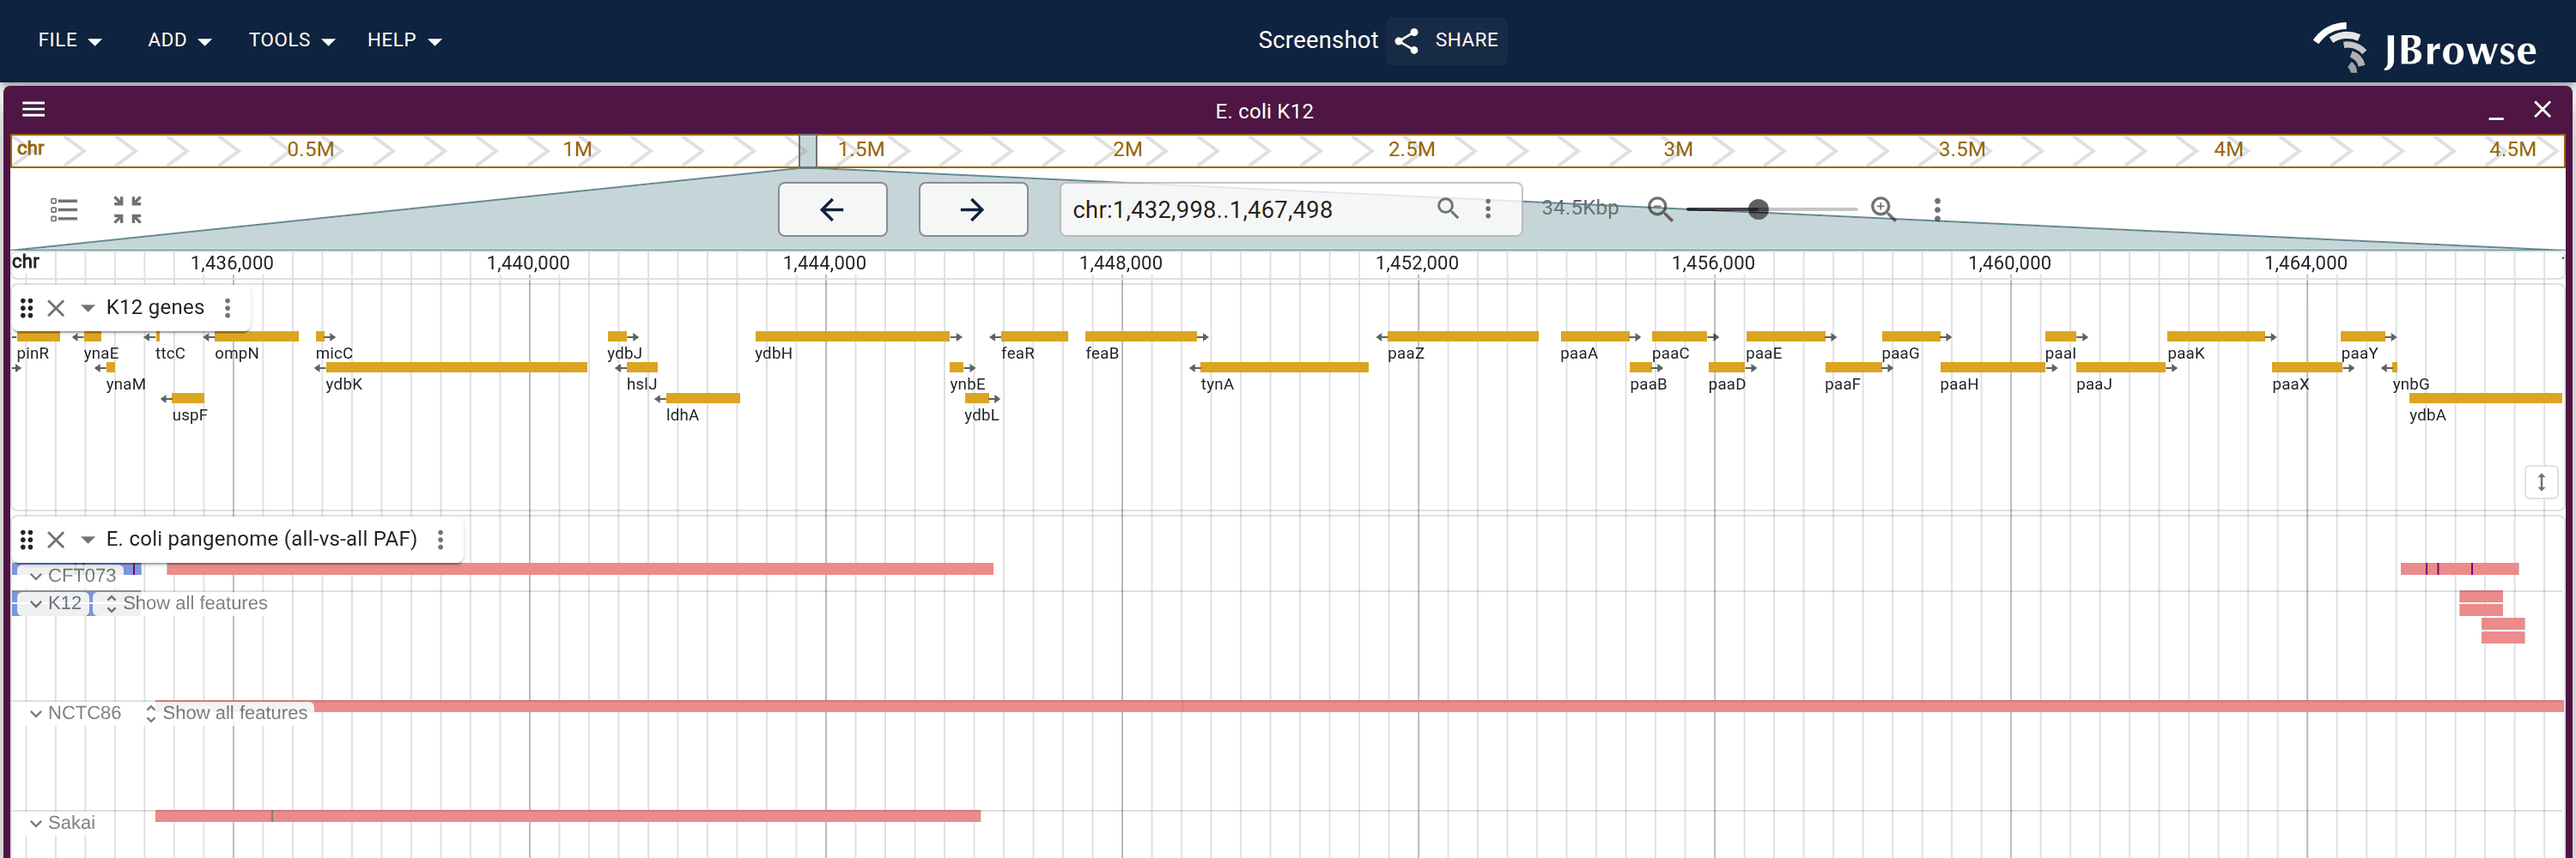
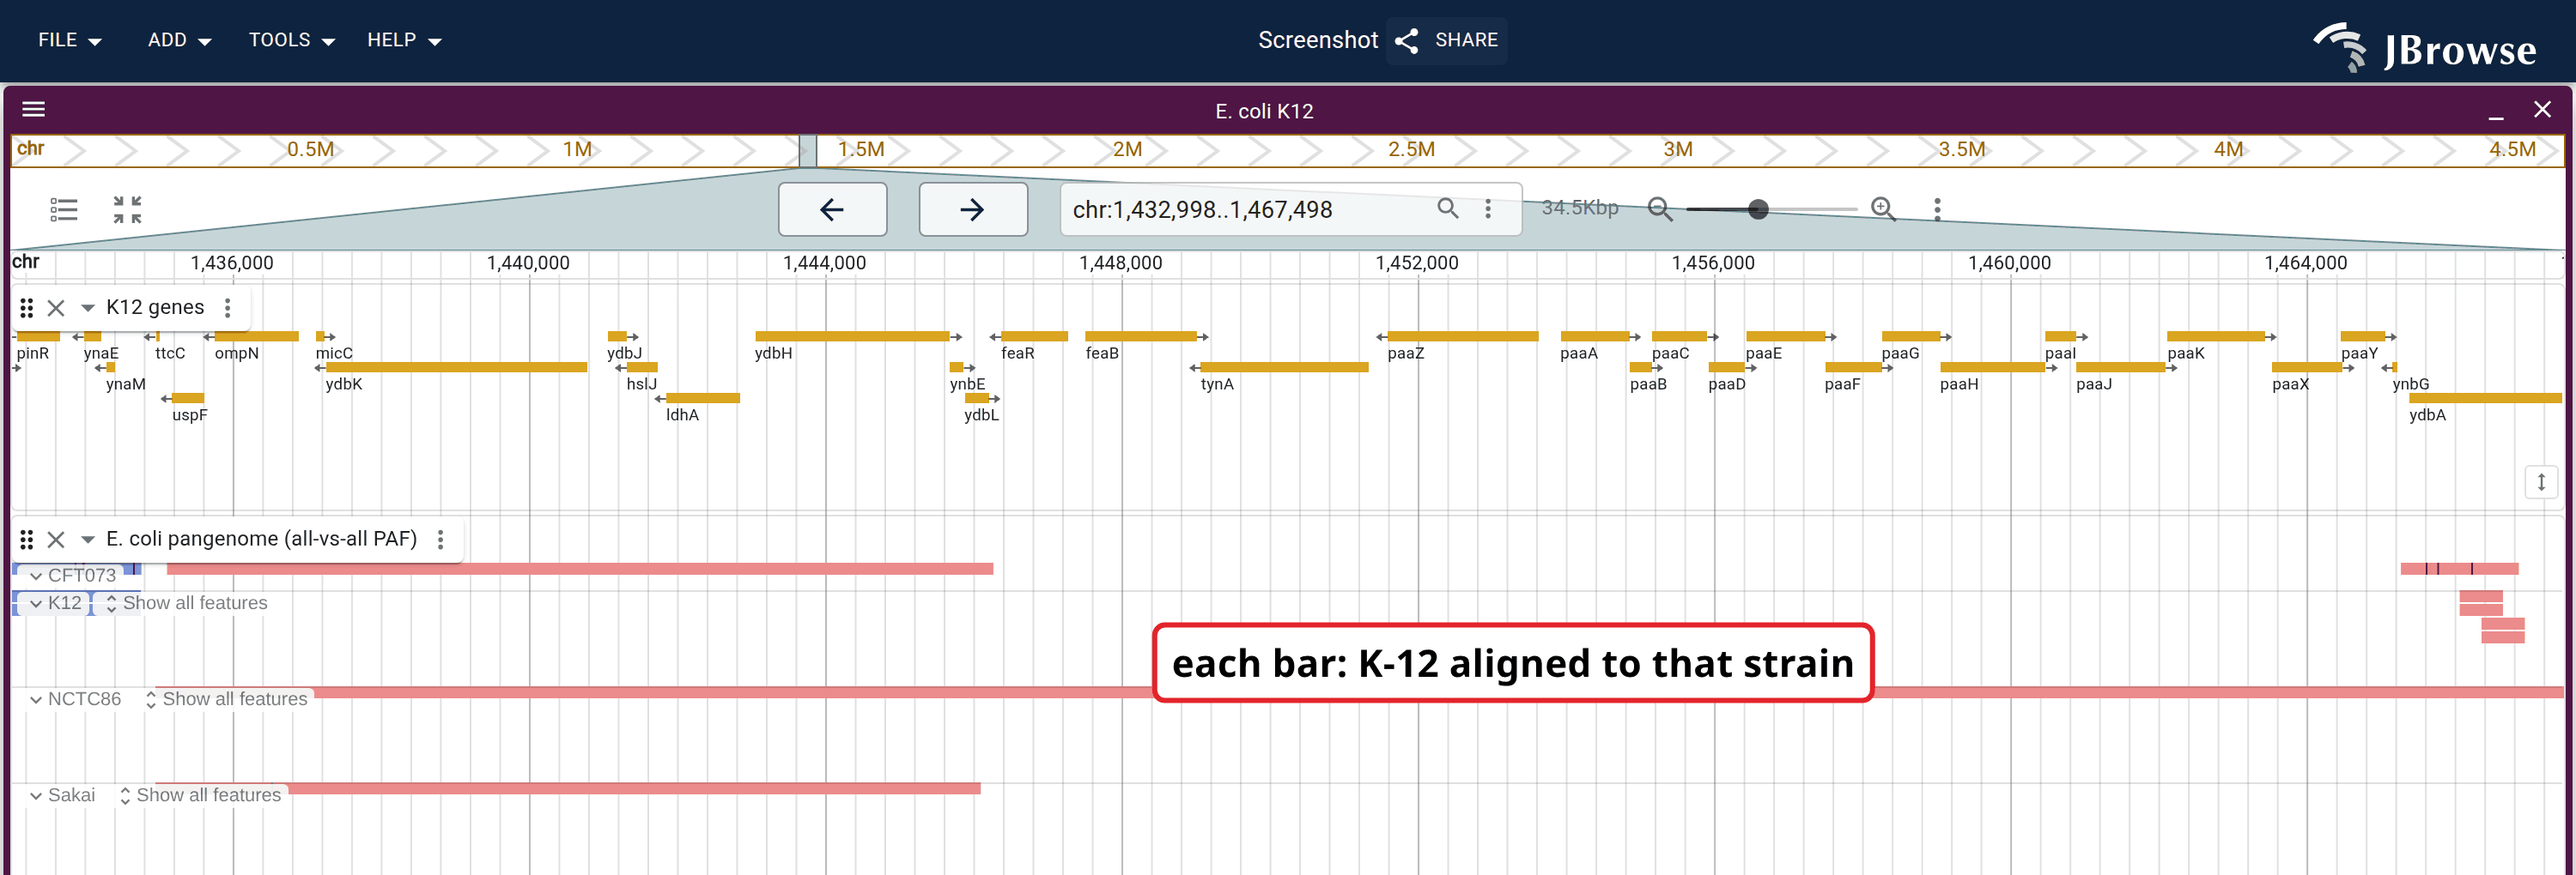
docs(synteny): make the one-vs-all figure legible, add it to the gallery
Review feedback on ecoli_one_vs_all was "unclear what we are looking at. needs
extra annotation potentially". The cause was mostly layout: at height 250 the
four mate sections were nearly all empty space, so the figure read as a scatter
of unrelated bars rather than one track split into four per-strain rows. Sizing
the track to the rows it actually has puts the four sections adjacent, where the
grouping is self-evident.

Adds one callout for the part the section chips still do not say: that each bar
is K-12 aligned to that strain, not four separate tracks. Anchored to the bottom
section's chip and pushed right into the bare stretch so it covers no block, per
the on-image annotation rule that it name the view and leave the biology to the
caption (which is unchanged and still accurate).

Also adds the whole-genome one-vs-all figure to the gallery. Synteny rendered
through the pileup display in a plain LGV is a distinct capability from the
synteny-view cards already there, and it had a committed figure and a resolvable
live link but no card.

Claude-Session: https://claude.ai/code/session_013fBxpsWWPdqnW8oj71YZwX

diff --git a/website/scripts/specs/synteny.ts b/website/scripts/specs/synteny.ts
@@ -462,17 +462,35 @@ export const syntenySpecs: ScreenshotSpec[] = [
                 trackId: 'ecoli_ava',
                 type: 'LGVSyntenyDisplay',
                 groupBy: { type: 'mateAssembly' },
-                height: 250,
+                // sized to the four sections' actual rows. At 250 each section
+                // was mostly empty space, which is what made the figure read as
+                // an unexplained scatter of bars rather than four per-strain
+                // rows ("unclear what we are looking at" in review).
+                height: 210,
               },
             ],
           },
         ],
       },
     ),
-    viewportHeight: 500,
+    viewportHeight: 510,
     readySelector: '[data-testid="pileup-display-done"]',
     readyTimeout: 120000,
     settleMs: 12000,
+    // One callout naming what the section labels don't say: these are not four
+    // tracks, they are one track split by which strain each block aligns to.
+    // Anchored to the bottom section's chip and pushed right into the bare
+    // stretch, so it labels the sections without covering any block. The biology
+    // (which operon, why two stop) stays in the caption.
+    annotations: [
+      {
+        type: 'text',
+        text: 'each bar: K-12 aligned to that strain',
+        anchor: { text: 'NCTC86' },
+        dx: 640,
+        dy: -14,
+      },
+    ],
   },
 
   // The whole-genome end of the same "One strain against all the others"

diff --git a/website/src/lib/gallery.ts b/website/src/lib/gallery.ts
@@ -160,6 +160,13 @@ export const gallerySections: readonly GallerySection[] = [
           'Four E. coli strains in one synteny view, every band backed by the same all-vs-all PAF. The view takes any number of assemblies, and a minimum alignment length filter drops the short alignments so the backbone stays readable.',
       },
       {
+        label: 'Synteny track in a plain linear view',
+        spec: 'multiway_synteny/ecoli_one_vs_all_whole_genome',
+        guide: 'tutorials/allvsall_synteny',
+        description:
+          "The same all-vs-all track in an ordinary linear genome view instead of a synteny view: with no second row to pair against, it draws E. coli K-12's whole 4.6 Mb against every other strain at once, grouped into one labelled section per strain.",
+      },
+      {
         label: 'Same-species dotplot',
         spec: 'gallery/hg19_vs_hg38',
         guide: 'user_guides/dotplot_view',
